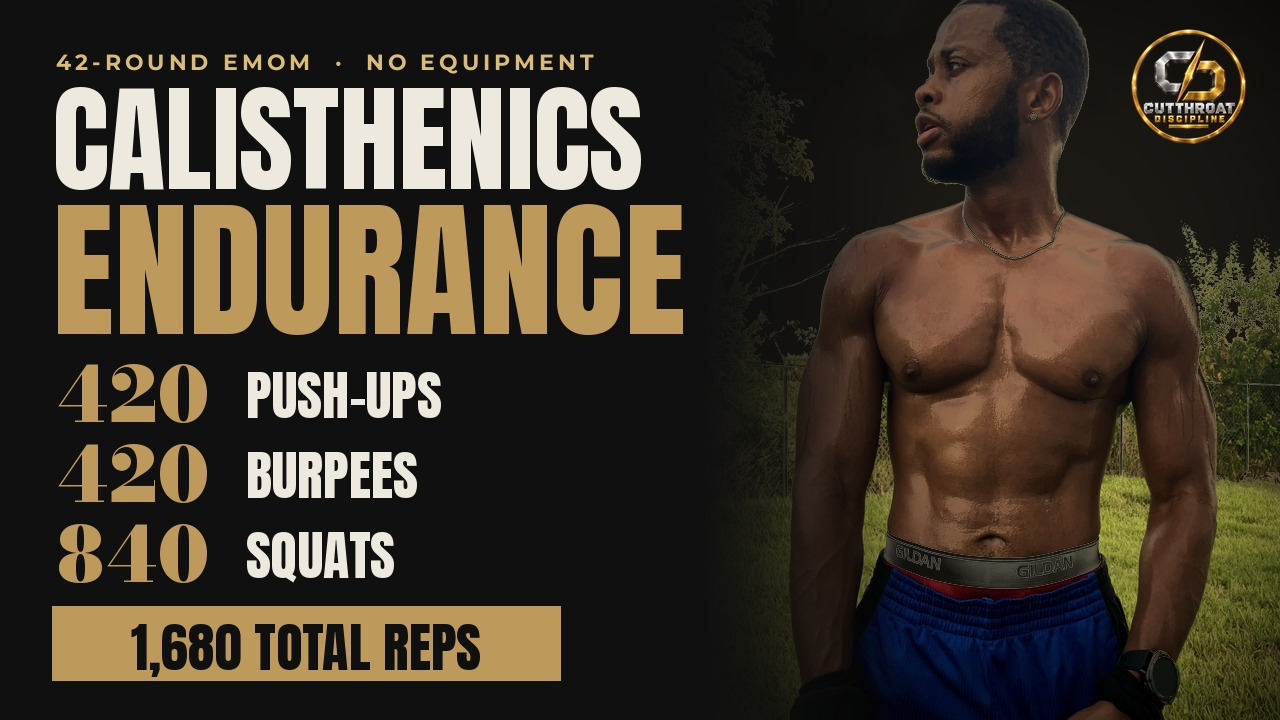
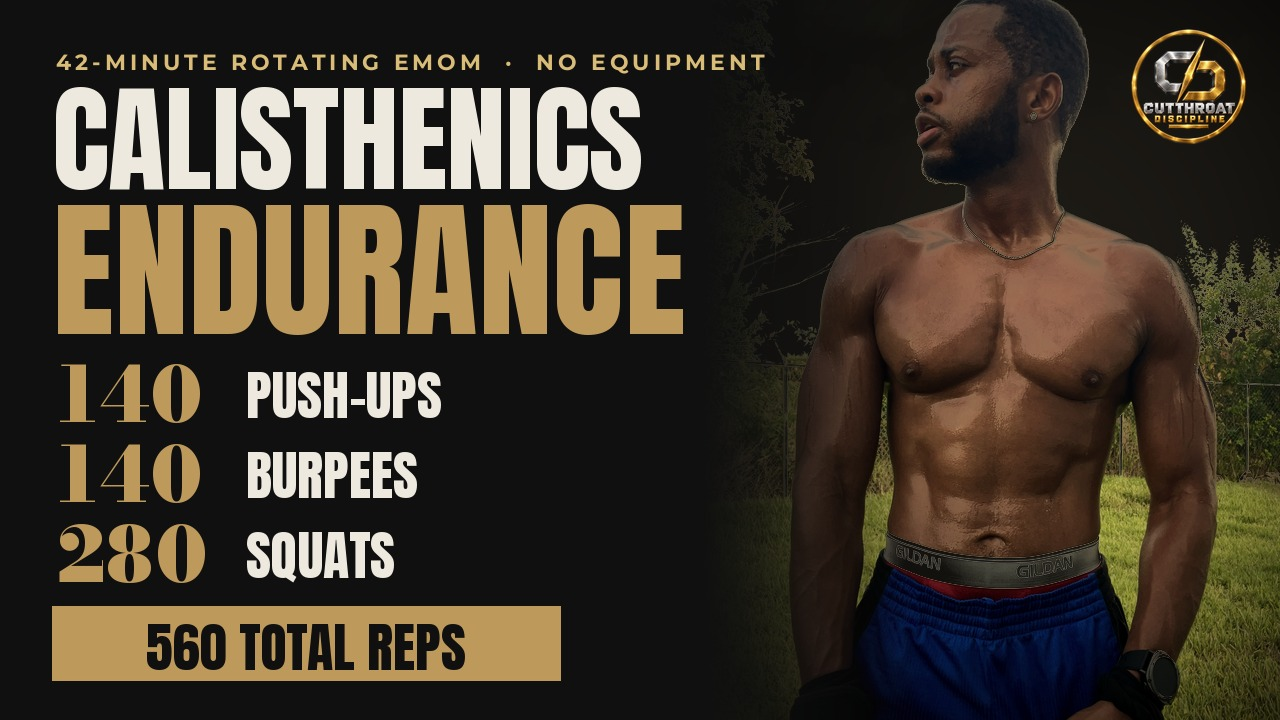
Fix EMOM thumbnail totals for rotating format (560 reps)
Claude-Session: https://claude.ai/code/session_01XgV1Y2NfWYwAyGjWbzhh5n

diff --git a/tools/build_youtube_thumb_emom.py b/tools/build_youtube_thumb_emom.py
@@ -54,7 +54,7 @@ def main():
     d = ImageDraw.Draw(img)
 
     ef = font(UTIL, 22)
-    tracked(d, 56, 48, "42-ROUND EMOM  ·  NO EQUIPMENT", ef, LGOLD, 4)
+    tracked(d, 56, 48, "42-MINUTE ROTATING EMOM  ·  NO EQUIPMENT", ef, LGOLD, 4)
     f1 = fit(HEAD, "CALISTHENICS", 118, 700)
     d.text((52, 88 - f1.getbbox("H")[1]), "CALISTHENICS", font=f1, fill=BONE)
     f2 = fit(HEAD, "ENDURANCE", 150, 700)
@@ -62,7 +62,7 @@ def main():
     d.text((52, y - f2.getbbox("H")[1]), "ENDURANCE", font=f2, fill=GOLD)
     y += f2.getbbox("H")[3] - f2.getbbox("H")[1] + 30
 
-    rows = [("420", "PUSH-UPS"), ("420", "BURPEES"), ("840", "SQUATS")]
+    rows = [("140", "PUSH-UPS"), ("140", "BURPEES"), ("280", "SQUATS")]
     nf, lf = font(NUMERAL, 76), font(HEAD, 54)
     for num, lab in rows:
         d.text((56, y - nf.getbbox("0")[1]), num, font=nf, fill=GOLD)
@@ -71,7 +71,7 @@ def main():
     y += 2
     d.rectangle((52, y, 560, y + 74), fill=GOLD)
     tf = font(HEAD, 54)
-    t = "1,680 TOTAL REPS"
+    t = "560 TOTAL REPS"
     d.text((52 + (508 - tf.getlength(t)) / 2, y + 12 - tf.getbbox("H")[1] + 6), t, font=tf, fill=INK)
 
     logo = Image.open(ROOT / TOKENS["logo"]["compact"]).convert("RGBA").resize((118, 118), Image.LANCZOS)

diff --git a/outputs/edison-ambrister-yt-emom-endurance/README.md b/outputs/edison-ambrister-yt-emom-endurance/README.md
@@ -1,7 +1,7 @@
 # YouTube thumbnail: Calisthenics Endurance (42-round EMOM)
 
 - **Size:** 1280×720 (YouTube thumbnail). File: `jpg/yt-thumbnail-emom-endurance.jpg` (PNG alongside).
-- **Workout:** every minute for 42 rounds: 10 push-ups, 10 burpees, 20 squats.
-- **Totals:** 420 push-ups, 420 burpees, 840 squats = 1,680 reps.
+- **Workout:** 42-minute rotating EMOM. Minute 1: 10 push-ups, minute 2: 10 burpees, minute 3: 20 squats, repeat (14 rounds of each).
+- **Totals:** 140 push-ups, 140 burpees, 280 squats = 560 reps.
 - **Photo:** Edison's own photo (outdoor), graded dark and gold. Logo: Cutthroat Discipline emblem.
 - **Rebuild:** `python3 tools/build_youtube_thumb_emom.py`
